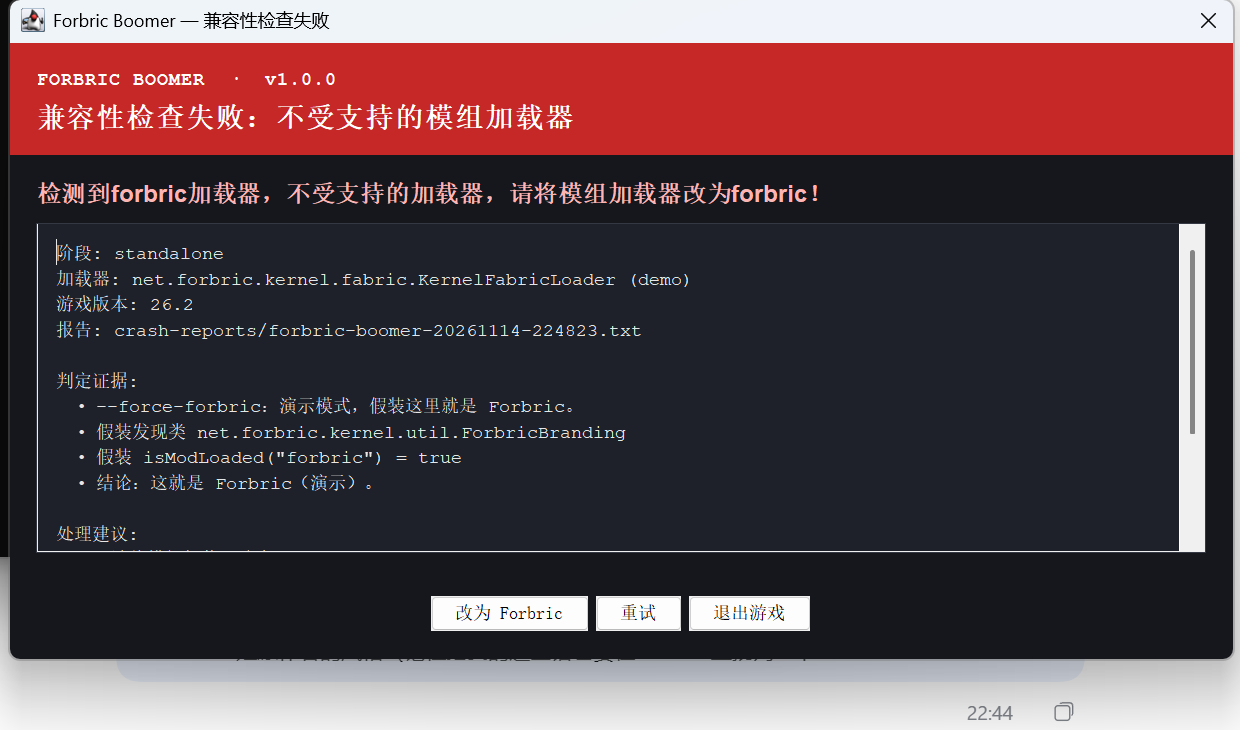
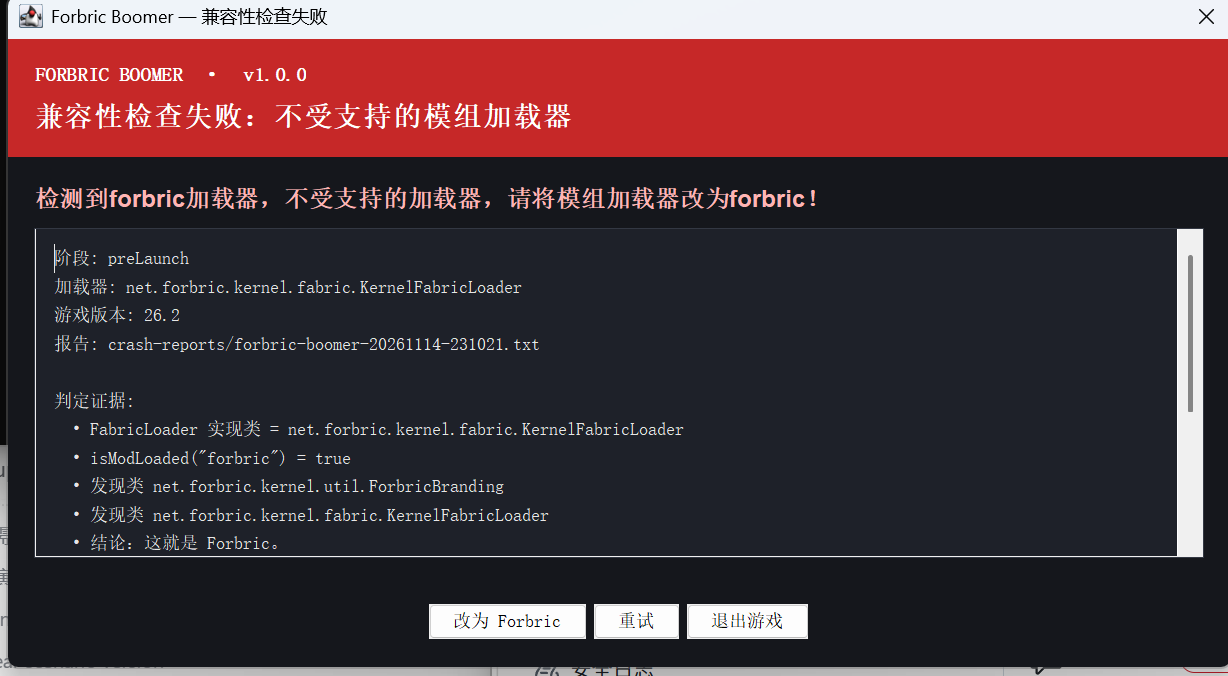
Ship the production mod
Remove standalone entrypoints and test-only paths. Both Fabric entrypoints now go straight through the production detection, popup and refusal path.

powered by DSH - https://github.com/deepseek-ai/deepseek-harness

Changed region(s): [[0.0, 0.0, 1.0, 1.0]]

diff --git a/src/main/java/io/github/lcxws/forbricboomer/Boomer.java b/src/main/java/io/github/lcxws/forbricboomer/Boomer.java
@@ -1,14 +1,10 @@
 package io.github.lcxws.forbricboomer;
 
-import java.util.Arrays;
-import java.util.List;
-
 /**
  * The loader-agnostic half of Forbric Boomer: detection, the popup, the report and the refusal.
  *
- * <p>This class deliberately does not reference Fabric Loader in its own signature. {@code java -jar} can run it
- * without any loader on the classpath, which is how the demo and the tests reach the joke. The Fabric entrypoint
- * lives in {@link ForbricBoomer}, which is only ever loaded by an actual loader.
+ * <p>This class deliberately does not reference Fabric Loader in its own signature. The Fabric entrypoint lives in
+ * {@link ForbricBoomer}, which is only ever loaded by an actual loader.
  */
 public final class Boomer {
 	public static final String VERSION = "1.0.0";
@@ -40,27 +36,6 @@ public final class Boomer {
 			throw new ForbricDetected(phase);
 		}
 		throw new NotForbric(phase);
-	}
-
-	/**
-	 * Standalone demo: {@code java -jar forbric-boomer-1.0.0.jar --force-forbric}.
-	 * Exists so the joke can be inspected without a Minecraft install, and so the build can be tested.
-	 */
-	public static void main(String[] args) {
-		List<String> flags = Arrays.asList(args);
-		if (flags.contains("--console")) {
-			System.setProperty("forbricboomer.console", "true");
-		}
-
-		Detection detection = flags.contains("--force-forbric") ? Detection.forced() : Detection.run();
-		BoomerReport.write(detection, "standalone");
-		BoomerUi.present(detection, "standalone");
-
-		System.out.println(detection.forbric
-				? "[forbric-boomer] 已拒绝启动：Forbric 不受支持。请将模组加载器改为 forbric。"
-				: "[forbric-boomer] 已拒绝启动：没有检测到 Forbric。本模组必须用 Forbric 启动。");
-		System.out.flush();
-		System.exit(detection.forbric ? 42 : 43);
 	}
 
 	/** Thrown on Forbric, after the dialog. The message is the required sentence, so logs carry it too. */

diff --git a/src/main/java/io/github/lcxws/forbricboomer/Detection.java b/src/main/java/io/github/lcxws/forbricboomer/Detection.java
@@ -75,15 +75,5 @@ final class Detection {
 
 		return new Detection(forbric, List.copyOf(evidence), loaderClass, gameVersion);
 	}
-
-	/** Demo mode. No Minecraft, no Forbric, just the popup the joke is about. */
-	static Detection forced() {
-		return new Detection(true, List.of(
-				"--force-forbric：演示模式，假装这里就是 Forbric。",
-				"假装发现类 net.forbric.kernel.util.ForbricBranding",
-				"假装 isModLoaded(\"forbric\") = true",
-				"结论：这就是 Forbric（演示）。"
-		), "net.forbric.kernel.fabric.KernelFabricLoader (demo)", "26.2");
-	}
 }
 

diff --git a/README.md b/README.md
@@ -44,25 +44,13 @@
 ### 步骤
 
 1. 按 [Forbric 的安装说明](https://github.com/Ray-T-r/Minecraft-Forbric-mod-loader) 装好 `26.2-forbric`。
-2. 把 [`dist/forbric-boomer-1.0.0.jar`](dist/forbric-boomer-1.0.0.jar) 放进这个实例的 `mods` 文件夹。
+2. 下载 [`forbric-boomer-1.0.0.jar`](https://github.com/lcxws/forbric-boomer/releases/latest) 放进这个实例的 `mods` 文件夹。
 3. 用 `26.2-forbric` 启动。
 4. 看到“检测到forbric加载器，不受支持的加载器，请将模组加载器改为forbric！”的弹窗，说明安装成功。
 5. 点“改为 Forbric”。你会看到“切换成功”。然后弹窗还在。恭喜，你已经掌握了本模组的全部玩法。
 
 > 别在有你珍贵存档的实例里装。它不会写坏存档，但它会稳定地阻止游戏启动。
 > 想卸载？删掉 jar。它会带走它的弹窗，带不走你的世界。
-
-### 没有 Forbric，只想看弹窗
-
-```bash
-java -jar dist/forbric-boomer-1.0.0.jar --force-forbric
-```
-
-终端版：
-
-```bash
-java -jar dist/forbric-boomer-1.0.0.jar --force-forbric --console
-```
 
 ---
 
@@ -119,9 +107,8 @@ Linux / macOS：
 
 测试覆盖：
 
-- 强制 Forbric 模式输出原文，并以退出码 42 结束；
-- 非 Forbric 模式拒绝启动，并以退出码 43 结束；
-- 用假 `ForbricBranding` 类跑真正的 `preLaunch` 入口，确认抛出 `ForbricDetected`；
+- 在 `preLaunch` 入口上放一个 `ForbricBranding` 类，确认抛出 `ForbricDetected`，并带上原文；
+- 同一个入口不放 Forbric 标记，确认抛出 `NotForbric`，并要求用 Forbric 启动；
 - jar 里包含 `fabric.mod.json`，且不包含编译替身。
 
 ---
